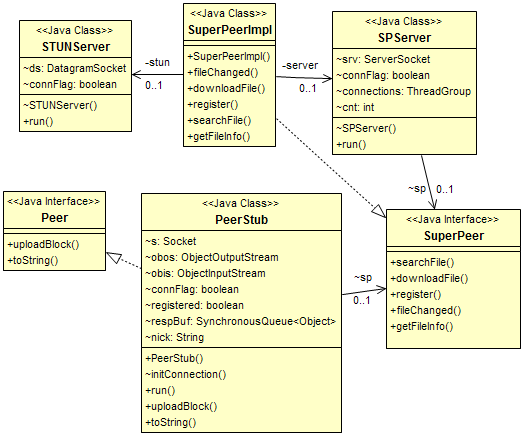
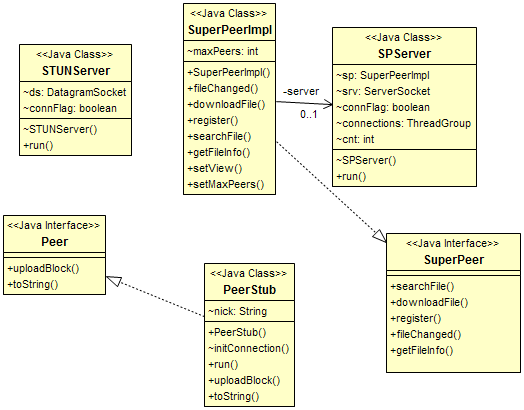
SuperPeerGUI

diff --git a/NCP2P-RMI/src/speer/SPView.java b/NCP2P-RMI/src/speer/SPView.java
@@ -1,0 +1,114 @@
+package speer;
+
+import java.awt.EventQueue;
+
+import javax.swing.DefaultListModel;
+import javax.swing.JButton;
+import javax.swing.JFrame;
+import javax.swing.JLabel;
+import javax.swing.JList;
+import javax.swing.JPanel;
+import javax.swing.JScrollPane;
+import javax.swing.JSeparator;
+import javax.swing.JTabbedPane;
+import javax.swing.JTable;
+import javax.swing.JTextField;
+import javax.swing.border.EmptyBorder;
+
+public class SPView extends JFrame {
+
+	private static final long serialVersionUID = 1L;
+	private DefaultListModel<String> lsmPeers;
+	private JPanel contentPane;
+	private JTable table;
+	private JButton btnSave;
+	JTextField txtMaxPeers;
+
+	/**
+	 * Launch the application.
+	 */
+	public static void main(String[] args) {
+		EventQueue.invokeLater(new Runnable() {
+			public void run() {
+				try {
+					SPView frame = new SPView();
+					frame.setVisible(true);
+				} catch (Exception e) {
+					e.printStackTrace();
+				}
+			}
+		});
+	}
+
+	/**
+	 * Create the frame.
+	 */
+	public SPView() {
+		setTitle("ncp2p SuperPeer");
+		setDefaultCloseOperation(JFrame.EXIT_ON_CLOSE);
+		setBounds(100, 100, 524, 345);
+		contentPane = new JPanel();
+		contentPane.setBorder(new EmptyBorder(5, 5, 5, 5));
+		setContentPane(contentPane);
+		contentPane.setLayout(null);
+		
+		JTabbedPane tabbedPane = new JTabbedPane(JTabbedPane.TOP);
+		tabbedPane.setBounds(10, 11, 485, 285);
+		contentPane.add(tabbedPane);
+		
+		JPanel pnlPeers = new JPanel();
+		tabbedPane.addTab("Peers", null, pnlPeers, null);
+		pnlPeers.setLayout(null);
+		
+		JScrollPane scrPeers = new JScrollPane();
+		scrPeers.setBounds(10, 11, 204, 190);
+		pnlPeers.add(scrPeers);
+		
+		lsmPeers=new DefaultListModel<String>();
+		JList<String> lstPeers = new JList<String>(lsmPeers);
+		scrPeers.setViewportView(lstPeers);
+		
+		JLabel lblMaxPeers = new JLabel("Max Peers :");
+		lblMaxPeers.setBounds(238, 70, 81, 14);
+		pnlPeers.add(lblMaxPeers);
+		
+		txtMaxPeers = new JTextField("3");
+		txtMaxPeers.setBounds(329, 65, 86, 20);
+		pnlPeers.add(txtMaxPeers);
+		txtMaxPeers.setColumns(10);
+		
+		JSeparator separator = new JSeparator();
+		separator.setBounds(238, 125, 232, 2);
+		pnlPeers.add(separator);
+		
+		btnSave = new JButton("Save");
+		btnSave.setBounds(326, 96, 89, 23);
+		pnlPeers.add(btnSave);
+		
+		JPanel pnlFiles = new JPanel();
+		tabbedPane.addTab("Files", null, pnlFiles, null);
+		pnlFiles.setLayout(null);
+		
+		JScrollPane scrFiles = new JScrollPane();
+		scrFiles.setBounds(10, 11, 460, 235);
+		pnlFiles.add(scrFiles);
+		
+		table = new JTable();
+		scrFiles.setViewportView(table);
+		setVisible(true);
+	}
+	
+	public void addPeer(String nick){
+		lsmPeers.addElement(nick);
+	}
+	
+	public void removePeer(String nick){
+		lsmPeers.removeElement(nick);
+	}
+
+	public void setController(SPController c) {
+		btnSave.addActionListener(c);
+		
+	}
+
+}

diff --git a/NCP2P-RMI/src/speer/SuperPeerImpl.java b/NCP2P-RMI/src/speer/SuperPeerImpl.java
@@ -14,10 +14,12 @@ import com.SuperPeer;
 
 public class SuperPeerImpl implements SuperPeer {
 
+	private SPView v;
 	private transient Hashtable<String,Peer> peers;
 	private transient ConcurrentHashMap<String,FileInfo> files;
 	@SuppressWarnings("unused") //Creates thread, so no meaning unused
 	private SPServer server;
+	int maxPeers;
 	@SuppressWarnings("unused")	//Creates thread, so no meaning unused
 	
 	public static void main(String args[]){
@@ -30,7 +32,7 @@ public class SuperPeerImpl implements SuperPeer {
 	}
 	
 	public SuperPeerImpl(int port) throws IOException{
-		
+		maxPeers=3;
 		peers=new Hashtable<String,Peer>();
 		files=new ConcurrentHashMap<String,FileInfo>();
 		server=new SPServer(this,port);
@@ -137,6 +139,10 @@ public class SuperPeerImpl implements SuperPeer {
 		if(status){
 			success=( peers.put(p.toString(), p) == null); /*//Returns:the previous value of the specified key in this hashtable, or null if it did not have one
 															*If adding peer succeed? two peers with same name cant be added*/
+			if(success){
+				v.addPeer(p.toString());
+			}
+			
 		}else{
 			success=(peers.remove(p.toString()) != null);
 			//Peer unregistred, delete its file from files
@@ -147,7 +153,12 @@ public class SuperPeerImpl implements SuperPeer {
 				}
 			}
 			
+			if(success){
+				v.removePeer(p.toString());
+			}
+			
 		}
+		
 		return success;
 	}
 
@@ -171,6 +182,14 @@ public class SuperPeerImpl implements SuperPeer {
 	@Override
 	public FileInfo getFileInfo(String checksum) {
 		return files.get(checksum);
+	}
+
+	public void setView(SPView v) {
+		this.v=v;
+	}
+
+	public void setMaxPeers(int a) {
+		maxPeers=a;
 	}
 
 }

diff --git a/NCP2P-RMI/src/peer/Upload.java b/NCP2P-RMI/src/peer/Upload.java
@@ -55,6 +55,7 @@ public class Upload implements Runnable{
 
 	void readAndSend(){
 		byte []tmp=null;
+		int blkcnt=blkto-blkfrm;
 		
 		try {
 		  FileInputStream fis=new FileInputStream(file); //good for sequential access
@@ -80,7 +81,7 @@ public class Upload implements Runnable{
 			    	   dm.p.view.updateProgress(sessionID,-1);
 		    		   return;
 		    	   }
-			       dm.p.view.updateProgress(sessionID,i-blkfrm);
+			       dm.p.view.updateProgress(sessionID,(i-blkfrm)/blkcnt * 100 +1);
 			   }//for loop
 			   dm.taskComplete(sessionID);
 		   }catch(IOException e){
@@ -115,7 +116,7 @@ public class Upload implements Runnable{
 				dp.setAddress(InetAddress.getByName(ip));
 				dp.setPort(port);
 				
-				System.out.println("Sending to :" + ip + ":"+ port);
+				//System.out.println("Sending to :" + ip + ":"+ port);
 				
 				ds.send(dp);
 				ds.receive(dp);		//wait for max 3 seconds

diff --git a/NCP2P-RMI/src/peer/View.java b/NCP2P-RMI/src/peer/View.java
@@ -184,7 +184,7 @@ public class View {
 		TableColumn tc3=tblTasks.getColumnModel().getColumn(2);
 		tc3.setCellRenderer(new ProgressRenderer());	//now value will be progressbar
 		
-		JLabel lblBackgroundTaskLike = new JLabel("Background task, like Download, Upload will be shown here.");
+		JLabel lblBackgroundTaskLike = new JLabel("Background tasks, Download and Upload will be shown here.");
 		lblBackgroundTaskLike.setBounds(10, 11, 564, 14);
 		pnlTasks.add(lblBackgroundTaskLike);
 		
@@ -301,7 +301,7 @@ public class View {
 	}
 
 	public void showMessage(String string) {
-		JOptionPane.showMessageDialog(frmPeerToPeer, string,  "Result", JOptionPane.WARNING_MESSAGE);
+		JOptionPane.showMessageDialog(frmPeerToPeer, string,  "Message", JOptionPane.WARNING_MESSAGE);
 	}
 
 	public String getInputString(String string) {

diff --git a/NCP2P-RMI/src/speer/SPController.java b/NCP2P-RMI/src/speer/SPController.java
@@ -1,0 +1,42 @@
+package speer;
+
+import java.awt.event.ActionEvent;
+import java.awt.event.ActionListener;
+import java.io.IOException;
+
+public class SPController implements ActionListener{
+
+	
+
+	public static void main(String args[]) throws IOException{
+		SPController c=new SPController();
+		SPView v=new SPView();
+			SuperPeerImpl p=new SuperPeerImpl(4689);
+			c.setModel(p);
+			p.setView(v);
+			c.setView(v);
+			v.setController(c);
+	}
+
+	private void setView(SPView v) {
+		this.view=v;
+		
+	}
+
+	private SuperPeerImpl model;
+	private SPView view;
+	
+	private void setModel(SuperPeerImpl p) {
+		this.model=p;
+		
+	}
+
+	@Override
+	public void actionPerformed(ActionEvent arg0) {
+	
+		int a=Integer.parseInt(view.txtMaxPeers.getText());
+		model.setMaxPeers(a);
+		
+	}
+
+}

diff --git a/NCP2P-RMI/src/peer/Controller.java b/NCP2P-RMI/src/peer/Controller.java
@@ -14,9 +14,7 @@ public class Controller extends MouseAdapter implements ActionListener {
 
 	PeerImpl model;
 	View view;
-	public Controller(){
 
-	}
 	public void setView(View v){
 		this.view=v;
 	}
@@ -83,9 +81,9 @@ public class Controller extends MouseAdapter implements ActionListener {
 		View v=new View();
 		try{
 			PeerImpl p=new PeerImpl(v,args[0]);
-		c.setView(v);
-		c.setModel(p);
-		v.setController(c);
+			c.setView(v);
+			c.setModel(p);
+			v.setController(c);
 		}catch(ArrayIndexOutOfBoundsException e){
 			v.showMessage("Create setting.xml.");
 		}

diff --git a/NCP2P-RMI/src/speer/SPServer.java b/NCP2P-RMI/src/speer/SPServer.java
@@ -27,8 +27,10 @@ public class SPServer implements Runnable{
 		while(connFlag){
 			try {
 				Socket s=srv.accept();
-				Thread t=new Thread(connections,new PeerStub(sp,s),"CON" + cnt++);
-				t.start();
+				if(connections.activeCount() <= sp.maxPeers){
+					Thread t=new Thread(connections,new PeerStub(sp,s),"CON" + cnt++);
+					t.start();
+				}
 			} catch (IOException e) {
 				e.printStackTrace();
 			}

diff --git a/NCP2P-RMI/src/peer/Download.java b/NCP2P-RMI/src/peer/Download.java
@@ -66,7 +66,7 @@ public class Download{
 				if(flags[blockNumber]==0){
 					storeToFile(blockNumber,payload);
 					blkgot++;
-					dm.p.view.updateProgress(sessionID,blkgot);
+					dm.p.view.updateProgress(sessionID,(blkgot/blkcnt)*100 + 1);
 				}
 				if(blkgot==blkcnt){
 					out.close();
